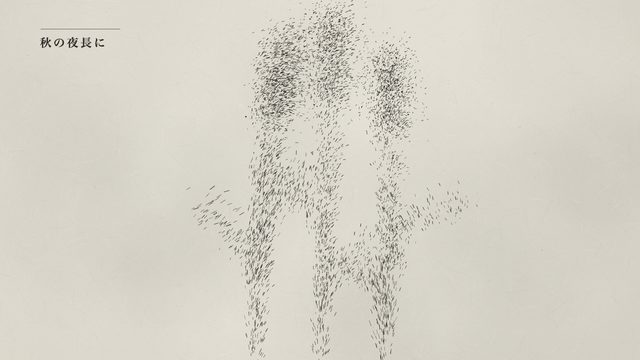
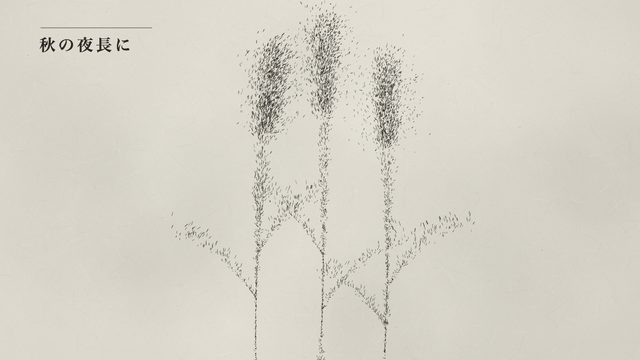
実験室：秋の夜長に（直した版）のサムネ

Changed region(s): [[0.2812, 0.0, 0.75, 1.0], [0.0625, 0.0611, 0.25, 0.1528]]

diff --git a/lab-works.html b/lab-works.html
@@ -137,7 +137,7 @@ html.js-ready .card.hide{display:none}
 - キャラクターや動物の絵をコードで描かない。図形・文字・模様・光・3Dの形で表現する（写真やイラストのファイルを渡された時だけ、それを使う）
 
 作り始める前に、芯のアイデアと場面の流れを3行で書き出してから作ってください。
-完成したら、使った演出と、芯のアイデアを1行ずつ教えてください。</pre><button type="button" class="prompt__more" aria-expanded="false">全部見る</button></div><p class="note">お手本：oops_all_paperclips さん「Fluoddity」https://x.com/OA_paperclips/status/2093445516919279867 。手元の mp4（outputs/motion-refs/fluoddity/）の1秒2コマの一覧（contact.jpg）を見てから作った</p><p class="note">注文書との違い（司令塔の共通メモを優先した所）：HTML 1枚の motion.html ではなく、棚に並べる動画として HyperFrames で作って MP4 に書き出した（先行作と同じ）。「もう一度見る」ボタンと「▶ 音つきで再生」ボタンは動画には要らないので置いていない。音は「Web Audio のコードだけ」ではなく、司令塔の順番（おけもんの自作曲 → 粒の動きに合わせたコードの音を足す）にした。ひと呼吸は、前半は 2.5秒…</p><p class="card__path">森：outputs/okemon-otehon-tsubu-2026-09-27/PROCESS.md</p></div></li><li class="card" data-tools="HyperFrames|Claude Code" data-st="ok"><div class="card__thumb"><img src="lab-works/thumbs/okemon-otehon-aki-yonaga-2026-09-27-102c44.jpg" alt="秋の夜長に — おけもん版（お手本：Kimi K3 予告映像）の一場面" loading="lazy" decoding="async"></div><div class="card__body"><div class="card__meta"><span class="card__date">2026.09.27</span><span class="tag">HyperFrames</span><span class="tag">Claude Code</span></div><h2 class="card__title">秋の夜長に — おけもん版（お手本：Kimi K3 予告映像）</h2><p class="card__lead">Kimi.ai（Moonshot AI）の Kimi K3 予告映像（筆の「道」が墨の粒にほどけ、月と古い線画になる）をお手本に、アプリ「モーションレシピ」の注文書のままで、うちの AI（手足）が15秒・横長の1本を作った。題材は季節のあいさつ「秋の夜長に」。同じ墨が、昔の字（篆書）→ 今の字 → 粒 → 稲穂 → すすき → 月 →…</p><p class="kv"><b>道具</b>Claude Code（Claude Opus 5.5・手足として実行）。動画は HyperFrames 0.8.79（HTML を1コマずつ撮る）で、筆・粒・線画・和紙はすべて Canvas 2D、音は Python で曲の加工とさらさら音の合成。15秒・1920×1080・30fps</p><div class="prompt"><div class="prompt__bar"><span>プロンプト</span><button type="button" class="btn copy">コピー</button></div><pre>あなたが今できる最高のモーショングラフィックで、見た人が思わず「すごい」と声に出す1本を作ってください。
+完成したら、使った演出と、芯のアイデアを1行ずつ教えてください。</pre><button type="button" class="prompt__more" aria-expanded="false">全部見る</button></div><p class="note">お手本：oops_all_paperclips さん「Fluoddity」https://x.com/OA_paperclips/status/2093445516919279867 。手元の mp4（outputs/motion-refs/fluoddity/）の1秒2コマの一覧（contact.jpg）を見てから作った</p><p class="note">注文書との違い（司令塔の共通メモを優先した所）：HTML 1枚の motion.html ではなく、棚に並べる動画として HyperFrames で作って MP4 に書き出した（先行作と同じ）。「もう一度見る」ボタンと「▶ 音つきで再生」ボタンは動画には要らないので置いていない。音は「Web Audio のコードだけ」ではなく、司令塔の順番（おけもんの自作曲 → 粒の動きに合わせたコードの音を足す）にした。ひと呼吸は、前半は 2.5秒…</p><p class="card__path">森：outputs/okemon-otehon-tsubu-2026-09-27/PROCESS.md</p></div></li><li class="card" data-tools="HyperFrames|Claude Code" data-st="ok"><div class="card__thumb"><img src="lab-works/thumbs/okemon-otehon-aki-yonaga-2026-09-27-102c44.jpg" alt="秋の夜長に — おけもん版（お手本：Kimi K3 予告映像）の一場面" loading="lazy" decoding="async"></div><div class="card__body"><div class="card__meta"><span class="card__date">2026.09.27</span><span class="tag">HyperFrames</span><span class="tag">Claude Code</span></div><h2 class="card__title">秋の夜長に — おけもん版（お手本：Kimi K3 予告映像）</h2><p class="card__lead">Kimi.ai（Moonshot AI）の Kimi K3 予告映像（筆の「道」が墨の粒にほどけ、月と古い線画になる）をお手本に、アプリ「モーションレシピ」の注文書のままで、うちの AI（手足）が15秒・横長の1本を作った。題材は季節のあいさつ「秋の夜長に」。同じ墨が、昔の字（篆書）→ 今の字 → 粒 → 稲穂 → 紅葉 → すすき →…</p><p class="kv"><b>道具</b>Claude Code（Claude Opus 5.5・手足として実行）。動画は HyperFrames 0.8.79（HTML を1コマずつ撮る）で、筆・粒・線画・和紙はすべて Canvas 2D、音は Python で曲の加工とさらさら音の合成。15秒・1920×1080・30fps</p><div class="prompt"><div class="prompt__bar"><span>プロンプト</span><button type="button" class="btn copy">コピー</button></div><pre>あなたが今できる最高のモーショングラフィックで、見た人が思わず「すごい」と声に出す1本を作ってください。
 いま世界中で話題の「AIが本気で作るモーショングラフィック」です。あなたの腕前を、出し惜しみせず全力で証明してください。
 
 ■ 作りたいもの（本人の言葉）
